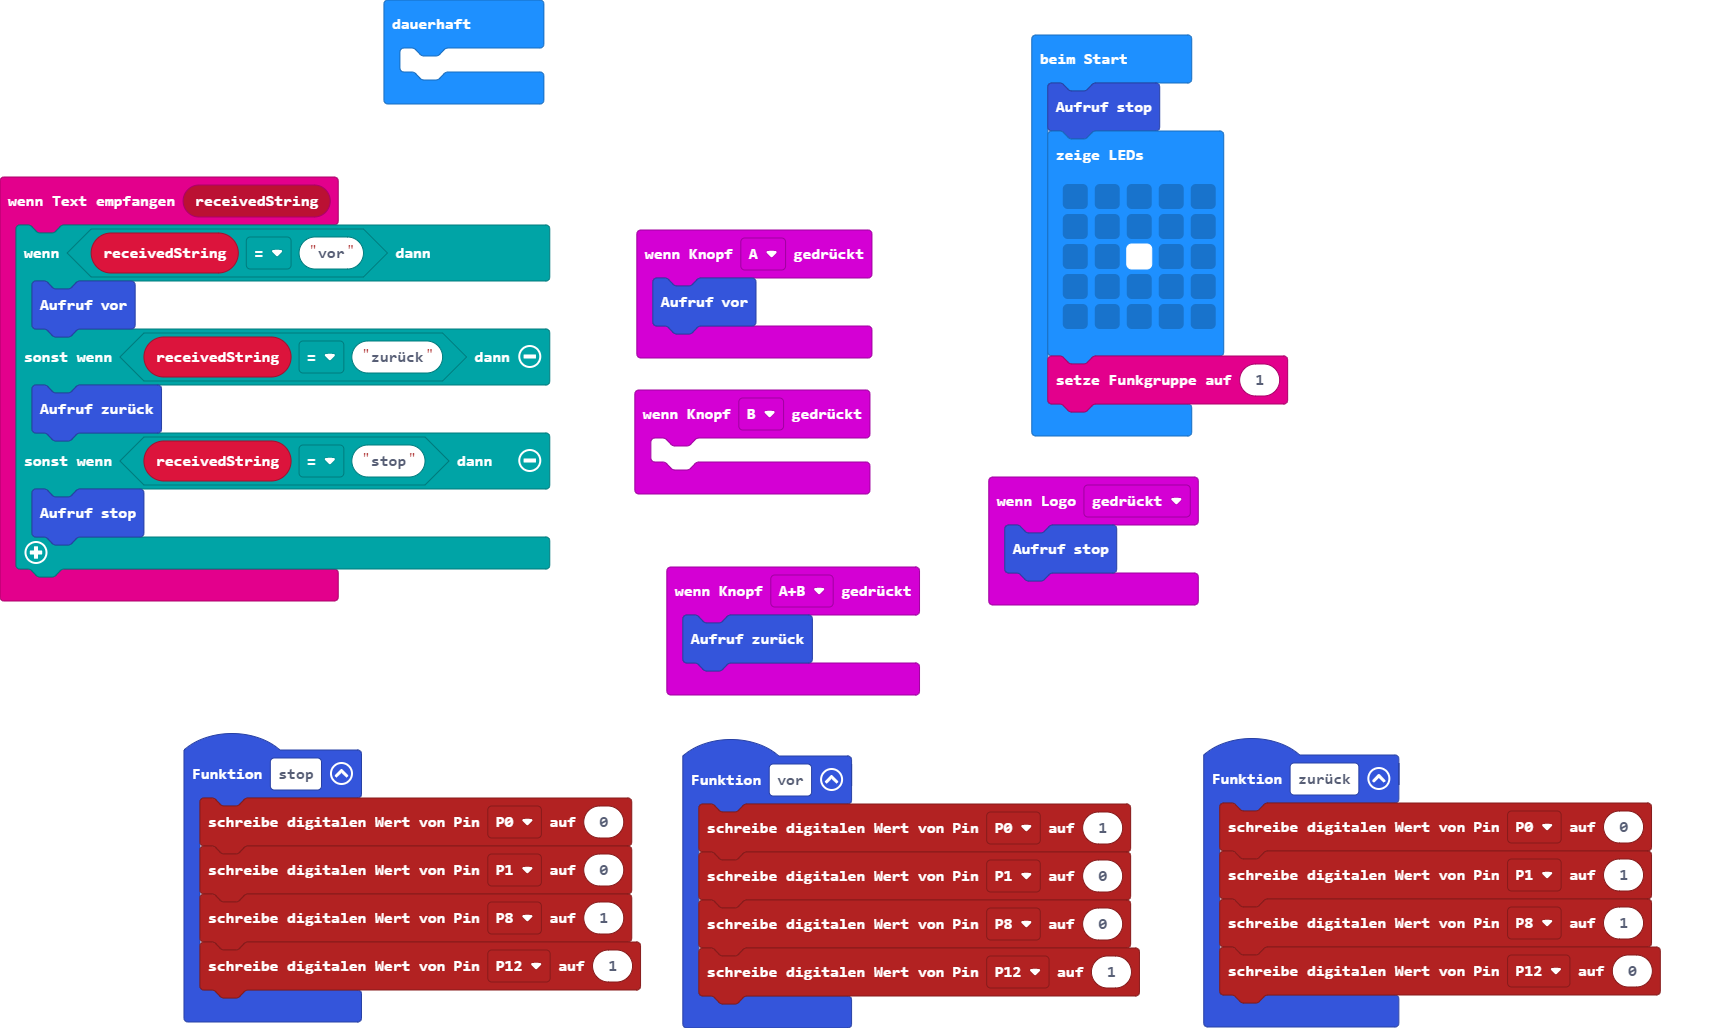
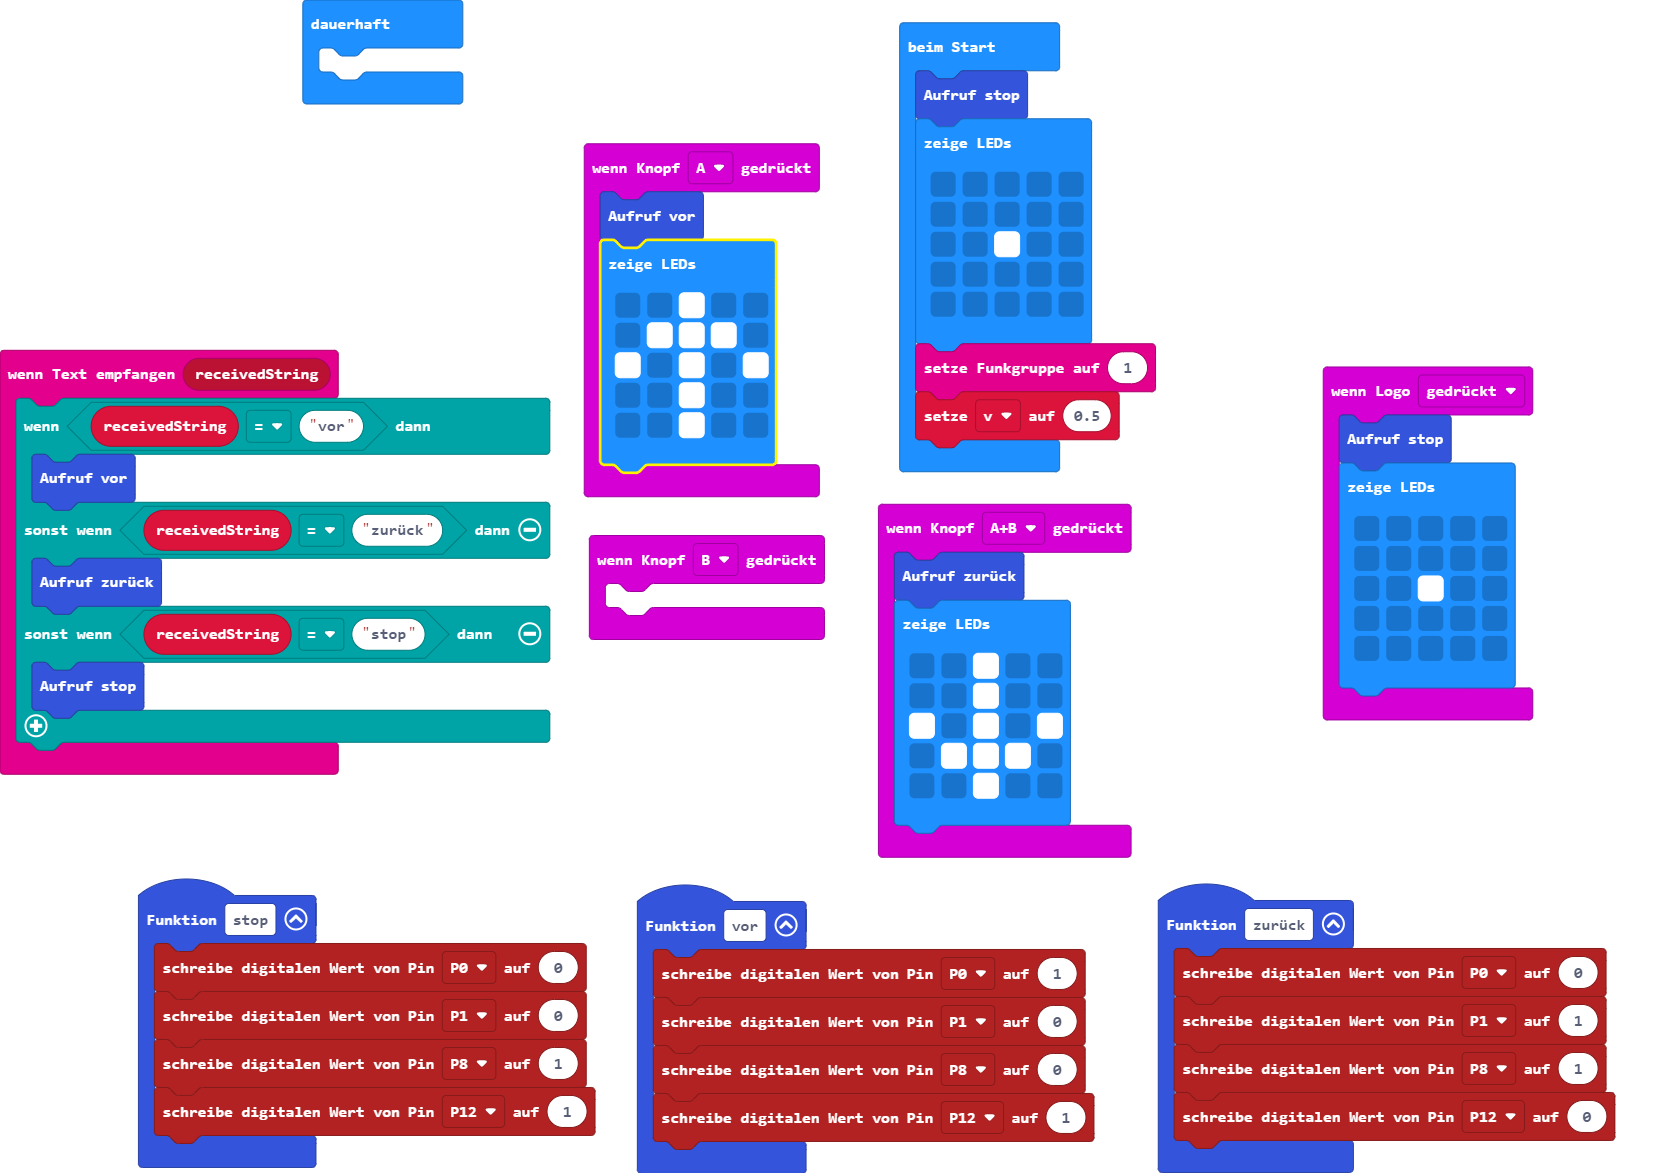
Richtung anzeigen

diff --git a/main.ts b/main.ts
@@ -1,5 +1,12 @@
 input.onLogoEvent(TouchButtonEvent.Pressed, function () {
     stop()
+    basic.showLeds(`
+        . . . . .
+        . . . . .
+        . . # . .
+        . . . . .
+        . . . . .
+        `)
 })
 function vor () {
     pins.digitalWritePin(DigitalPin.P0, 1)
@@ -15,6 +22,13 @@ function stop () {
 }
 input.onButtonPressed(Button.A, function () {
     vor()
+    basic.showLeds(`
+        . . # . .
+        . # # # .
+        # . # . #
+        . . # . .
+        . . # . .
+        `)
 })
 function zurück () {
     pins.digitalWritePin(DigitalPin.P0, 0)
@@ -24,6 +38,13 @@ function zurück () {
 }
 input.onButtonPressed(Button.AB, function () {
     zurück()
+    basic.showLeds(`
+        . . # . .
+        . . # . .
+        # . # . #
+        . # # # .
+        . . # . .
+        `)
 })
 radio.onReceivedString(function (receivedString) {
     if (receivedString == "vor") {
@@ -46,6 +67,7 @@ basic.showLeds(`
     . . . . .
     `)
 radio.setGroup(1)
+let v = 0.5
 basic.forever(function () {
 	
 })
